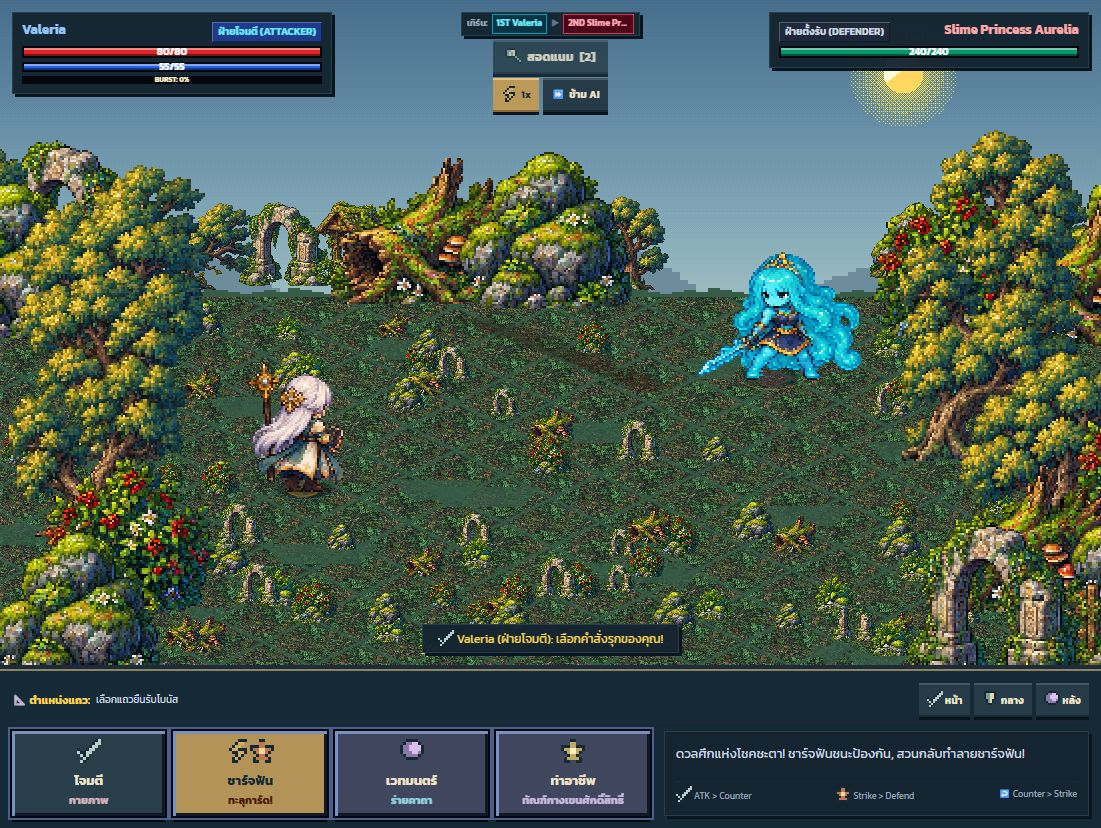
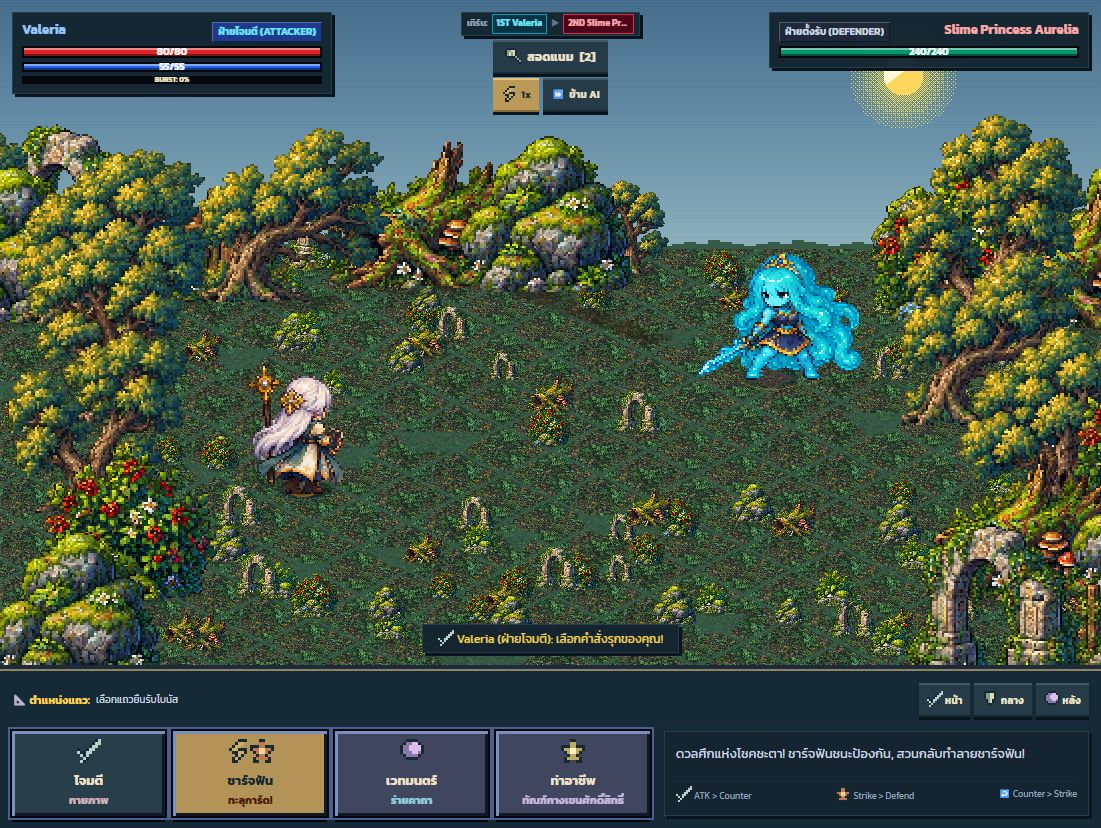
fix: ground battle scenery on visible sprite bases

diff --git a/src/engine/BattleScenery.ts b/src/engine/BattleScenery.ts
@@ -22,7 +22,7 @@ export function battleGroundLayout(w: number, h: number) {
 /** Dense scenery surrounds a clearing; full sprite bounds avoid combat silhouettes. */
 export function battleDressingLayout(w: number, h: number) {
   const ground = battleGroundLayout(w, h);
-  const horizon = ground.floorY - Math.max(4, Math.round(h * .22 / 24)) * 24 + 12;
+  const horizon = ground.floorY - (Math.max(4, Math.round(h * .22 / 24)) + 2) * 24 + 12;
   const scale = w >= 760 ? 2 : 1;
   const placements: { x: number; y: number; scale: number; tree: boolean; seed: number }[] = [];
   const clear = (x: number, y: number, size: number) =>
@@ -34,18 +34,49 @@ export function battleDressingLayout(w: number, h: number) {
     const size = row === 0 ? 1 : scale, step = row === 0 ? 70 : 96 * scale * .62;
     for (let i = -1; i <= Math.ceil(w / step); i++) {
       const x = Math.round(i * step + (row % 2) * step / 2);
-      const y = Math.round(horizon - 20 + row * 28 + worldNoise(i, row, 4) * 18);
+      const y = Math.round(horizon + 12 + row * 28 + worldNoise(i, row, 4) * 18);
       if (clear(x, y, 96 * size)) placements.push({ x, y, scale: size, tree: (i + row) % 3 === 0, seed: i + row * 29 });
     }
   }
   for (let row = 0; row < 5; row++) {
     const y = Math.round(horizon + 90 + row * (h - horizon - 70) / 4);
+    // Narrow screens keep partial edge clusters rather than crowding the fighters.
+    if (w < 760) for (const x of [-24, w + 24]) {
+      if (clear(x, y, 96)) placements.push({ x, y, scale: 1, tree: row < 3, seed: row * 17 + x });
+    }
     for (let i = 0; i < Math.ceil(w / (78 * scale)); i++) {
       const x = Math.round((i + .3 + worldNoise(i, row, 8) * .5) * 78 * scale);
       if (clear(x, y, 96 * scale)) placements.push({ x, y, scale, tree: row < 3 && i % 3 === 0, seed: i + row * 37 + 100 });
     }
   }
   return placements.sort((a, b) => a.y - b.y);
+}
+
+const sceneryFeet = new WeakMap<HTMLCanvasElement, number>();
+/** Anchor visible pixels rather than transparent canvas padding, with a tight contact shadow. */
+function drawGroundedScenery(ctx: CanvasRenderingContext2D, image: HTMLCanvasElement, x: number, y: number, scale: number, night: boolean) {
+  let foot = Number(image.dataset.footY);
+  if (!Number.isFinite(foot)) {
+    foot = sceneryFeet.get(image) ?? -1;
+    if (foot < 0) {
+      const data = image.getContext('2d')!.getImageData(0, 0, image.width, image.height).data;
+      foot = image.height - 1;
+      findFoot: for (let row = image.height - 1; row >= 0; row--) for (let col = 0; col < image.width; col++) {
+        if (data[(row * image.width + col) * 4 + 3] >= 80) { foot = row; break findFoot; }
+      }
+      sceneryFeet.set(image, foot);
+    }
+  }
+  ctx.save();
+  ctx.fillStyle = night ? '#101923' : '#20271e';
+  ctx.globalAlpha = .32;
+  const rx = Math.max(5, image.width * scale * .23), ry = Math.max(2, Math.round(scale * 4));
+  for (let row = -ry; row <= ry; row++) {
+    const half = Math.round(rx * Math.sqrt(Math.max(0, 1 - (row / (ry + 1)) ** 2)));
+    ctx.fillRect(Math.round(x - half), Math.round(y + row), half * 2, 1);
+  }
+  ctx.restore();
+  ctx.drawImage(image, Math.round(x - image.width * scale / 2), Math.round(y - foot * scale), image.width * scale, image.height * scale);
 }
 
 /** Arena scenery shares the board's pixels, materials, light and vegetation. */
@@ -60,7 +91,7 @@ export function drawBattleScenery(ctx: CanvasRenderingContext2D, w: number, h: n
   const { floorY } = battleGroundLayout(w, h), night = timeOfDay === 'NIGHT';
   // Extend the floor beyond the viewport. A visible diamond edge makes the arena look airborne.
   const columns = Math.ceil(w / 96) + 2;
-  const rearDepth = -Math.max(4, Math.round(h * .22 / 24));
+  const rearDepth = -(Math.max(4, Math.round(h * .22 / 24)) + 2);
   const frontDepth = Math.ceil((h - floorY) / 24) + 2;
   const horizon = floorY + rearDepth * 24 + 12;
   const palette = terrainPalette(resolveBiome(biome), night);
@@ -93,7 +124,7 @@ export function drawBattleScenery(ctx: CanvasRenderingContext2D, w: number, h: n
     const image = worldDetails.get(dressing[i % dressing.length], night);
     if (!image) continue;
     const size = 32 + (i % 3) * 8, scale = size / 96;
-    ctx.drawImage(image, Math.round(x - size / 2), Math.round(y - Number(image.dataset.footY || 80) * scale), size, size);
+    drawGroundedScenery(ctx, image, x, y, scale, night);
   }
   const species = foliageForBiome(biome);
   for (const placement of battleDressingLayout(w, h)) {
@@ -102,14 +133,12 @@ export function drawBattleScenery(ctx: CanvasRenderingContext2D, w: number, h: n
     const kind: WorldDetailName = index % 5 === 0 ? settlement[index % settlement.length] : dressing[index % dressing.length];
     const image = placement.tree && species ? isometricFoliageRenderer.getTreeSprite(species, index % 4) : worldDetails.get(kind, night);
     if (!image) continue;
-    const size = image.width * scale;
-    ctx.drawImage(image, Math.round(x - size / 2), Math.round(y - Number(image.dataset.footY || 80) * scale), size, size);
+    drawGroundedScenery(ctx, image, x, y, scale, night);
   }
   const landmark = boss ? 'dark_gate' : town ? 'capital' : biome === 'castle' ? 'town' : biome === 'steampunk' ? 'shop_weapon' : biome === 'sakura_shrine' ? 'isekai_event' : biome === 'coral' ? 'fishing' : biome === 'celestial' ? 'monument' : null;
   if (landmark) {
-    const building = isometricBuildingRenderer.getBuildingSprite(landmark), size = building.width * 2;
+    const building = isometricBuildingRenderer.getBuildingSprite(landmark);
     // Foundation sits on the same tiled plane behind the fighters.
-    const foot = building.width >= 96 ? 80 : 48;
-    ctx.drawImage(building, Math.round(w / 2 - size / 2), Math.round(horizon + 24 - foot * 2), size, size);
+    drawGroundedScenery(ctx, building, w / 2, horizon + 24, 2, night);
   }
 }

diff --git a/docs/art-review/QA.md b/docs/art-review/QA.md
@@ -104,3 +104,7 @@ Actual play rolled three, selected a visible destination and entered its NPC eve
 - Re-enabled vegetation in industrial/castle/arid encounters and reduced the flat floor overlay to retain material detail.
 - Large dressing is sorted by ground contact and excludes both fighter silhouettes at phone and desktop dimensions. No battle rules or UI controls changed.
 - Production build, typecheck and CSS coverage pass; all 182 tests pass, including deterministic placement and full sprite bounds around fighters. Browser-reviewed forest and steampunk fixtures; screenshots: battle-dense-forest.png and battle-dense-steampunk.png. Physical mobile performance has not been measured.
+
+### Battle grounding correction
+
+Rear scenery anchors previously extended above the rendered floor horizon. Extended the floor two rows rearward and placed every dressing foot at least 12px inside it. Scenery and landmarks now use their actual visible pixel base, with cached fallback anchor detection and tight pixel contact shadows. The viewport regression check also rejects scenery feet in the sky. Refreshed both battle screenshots after browser inspection.
